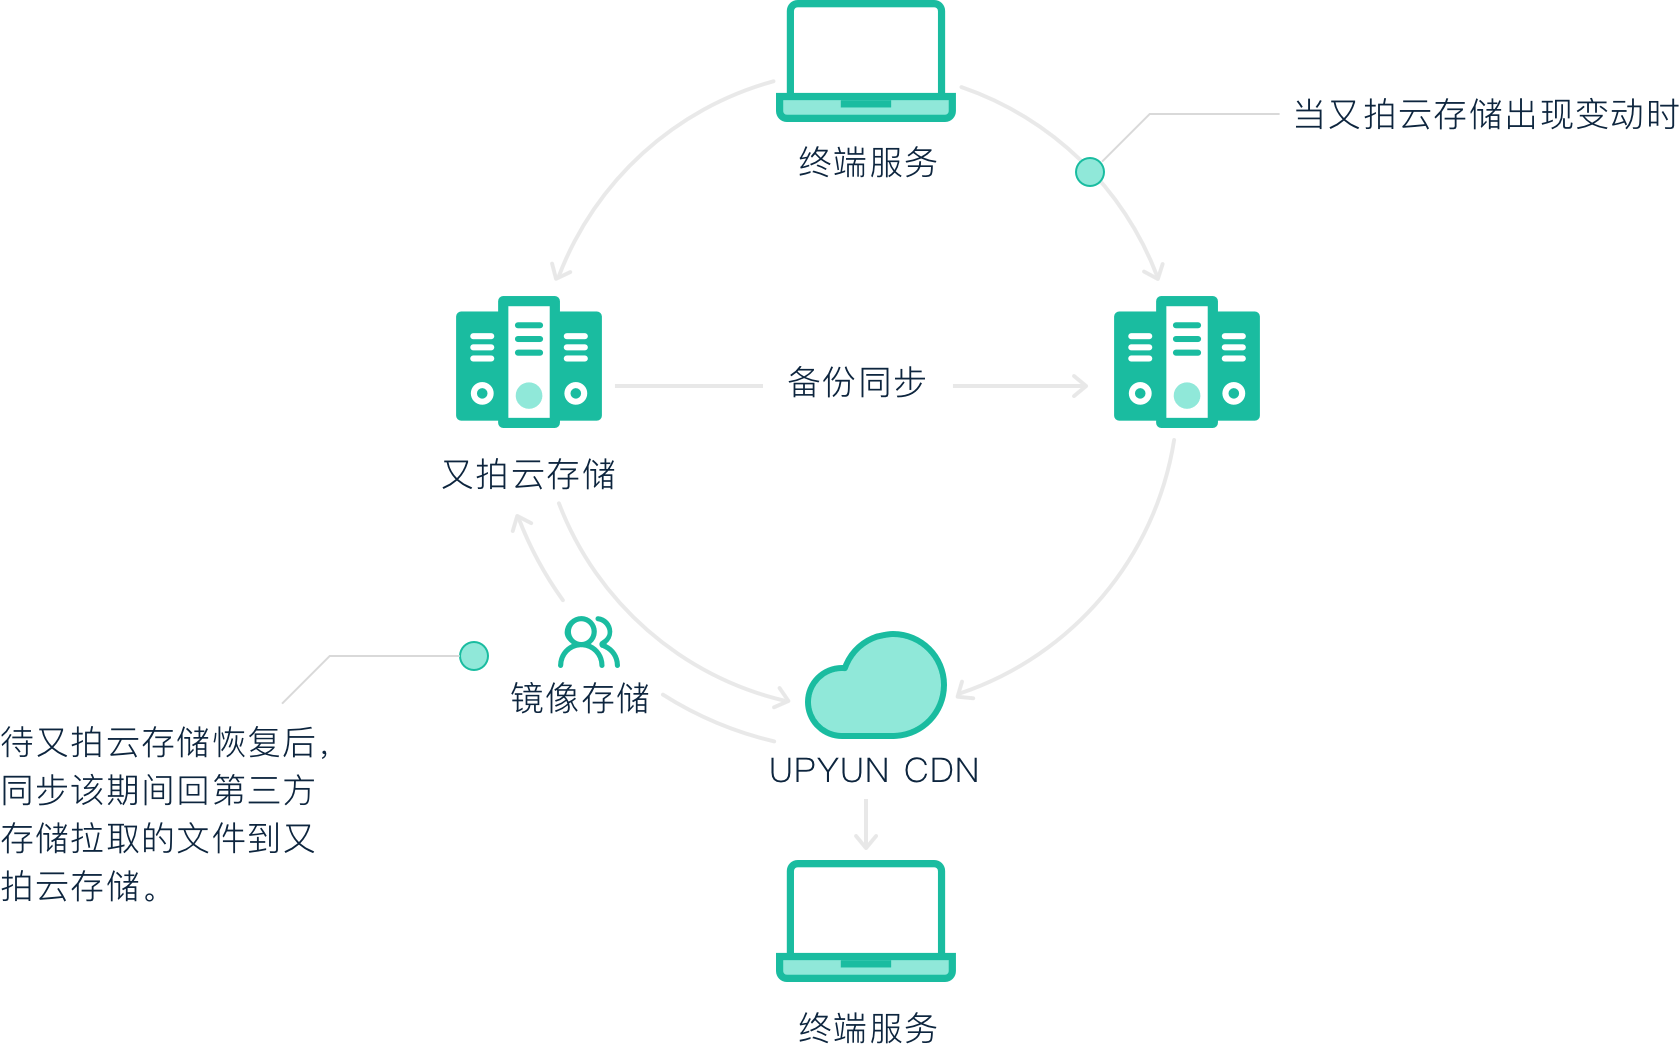
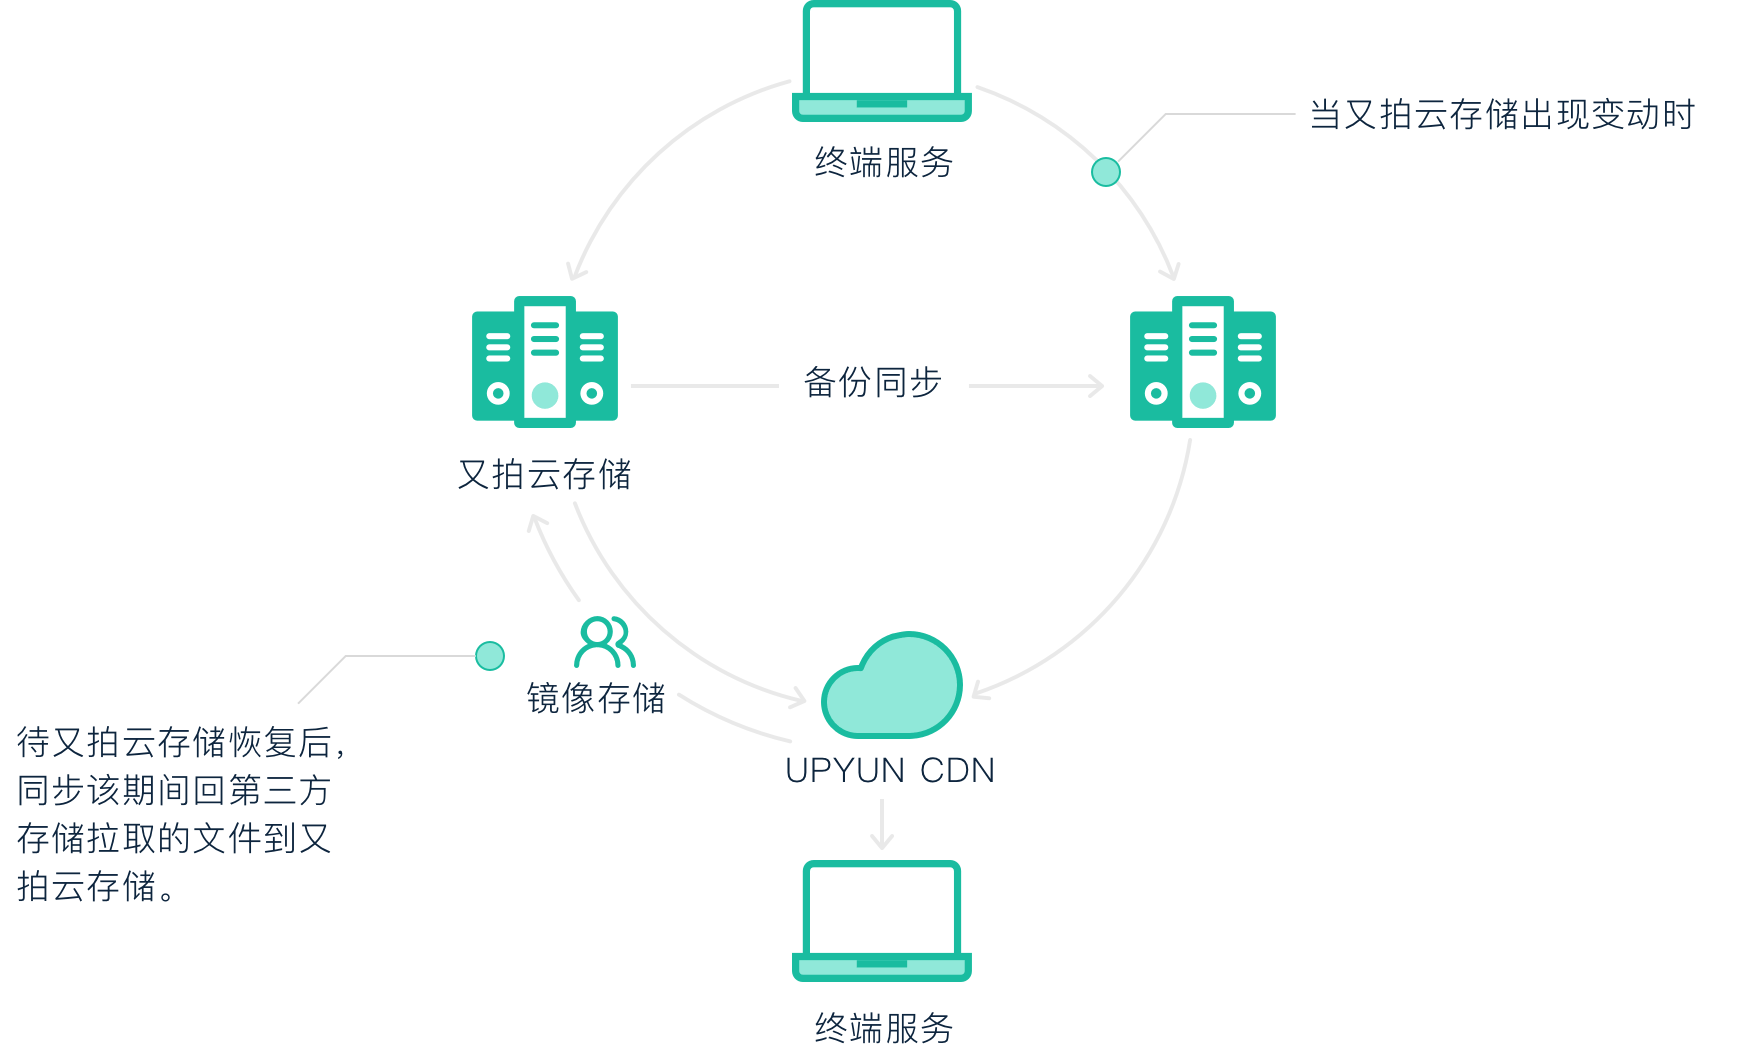
Add architecture to fusion page

diff --git a/src/pages/solution/fusion.vue b/src/pages/solution/fusion.vue
@@ -1,4 +1,14 @@
 <style lang="sass" src="./solution.sass" scoped></style>
+<style lang="sass" scoped>
+  .section-hero
+    background: white
+    padding: 56px 0 63px
+    text-align: center
+    border-top: solid 1px #f0f0f0
+    .main-description
+      margin-bottom: 20px
+      color: #97a1ab
+</style>
 
 <template lang="pug">
 layout(:colors="colorSet")
@@ -26,6 +36,10 @@ layout(:colors="colorSet")
             .img: img(src="./assets/fusion-icon-3.svg")
             .title 支持回第三方云存储源
             .description 支持启用第三方存储源（CDN 服务优先回又拍云存储源，其次回第三方存储源）保证您服务的高可用。
+    .section-hero
+      .main-title 融合云存储架构
+      .main-description 待又拍云存储恢复后，同步该期间回第三方存储拉取的文件到又拍云存储
+      img(src="./assets/architecture.png", width="882", height="522")
     up_gradient.section-features-h(:colors="colorSet")
       .container
         .main-title 方案优势
